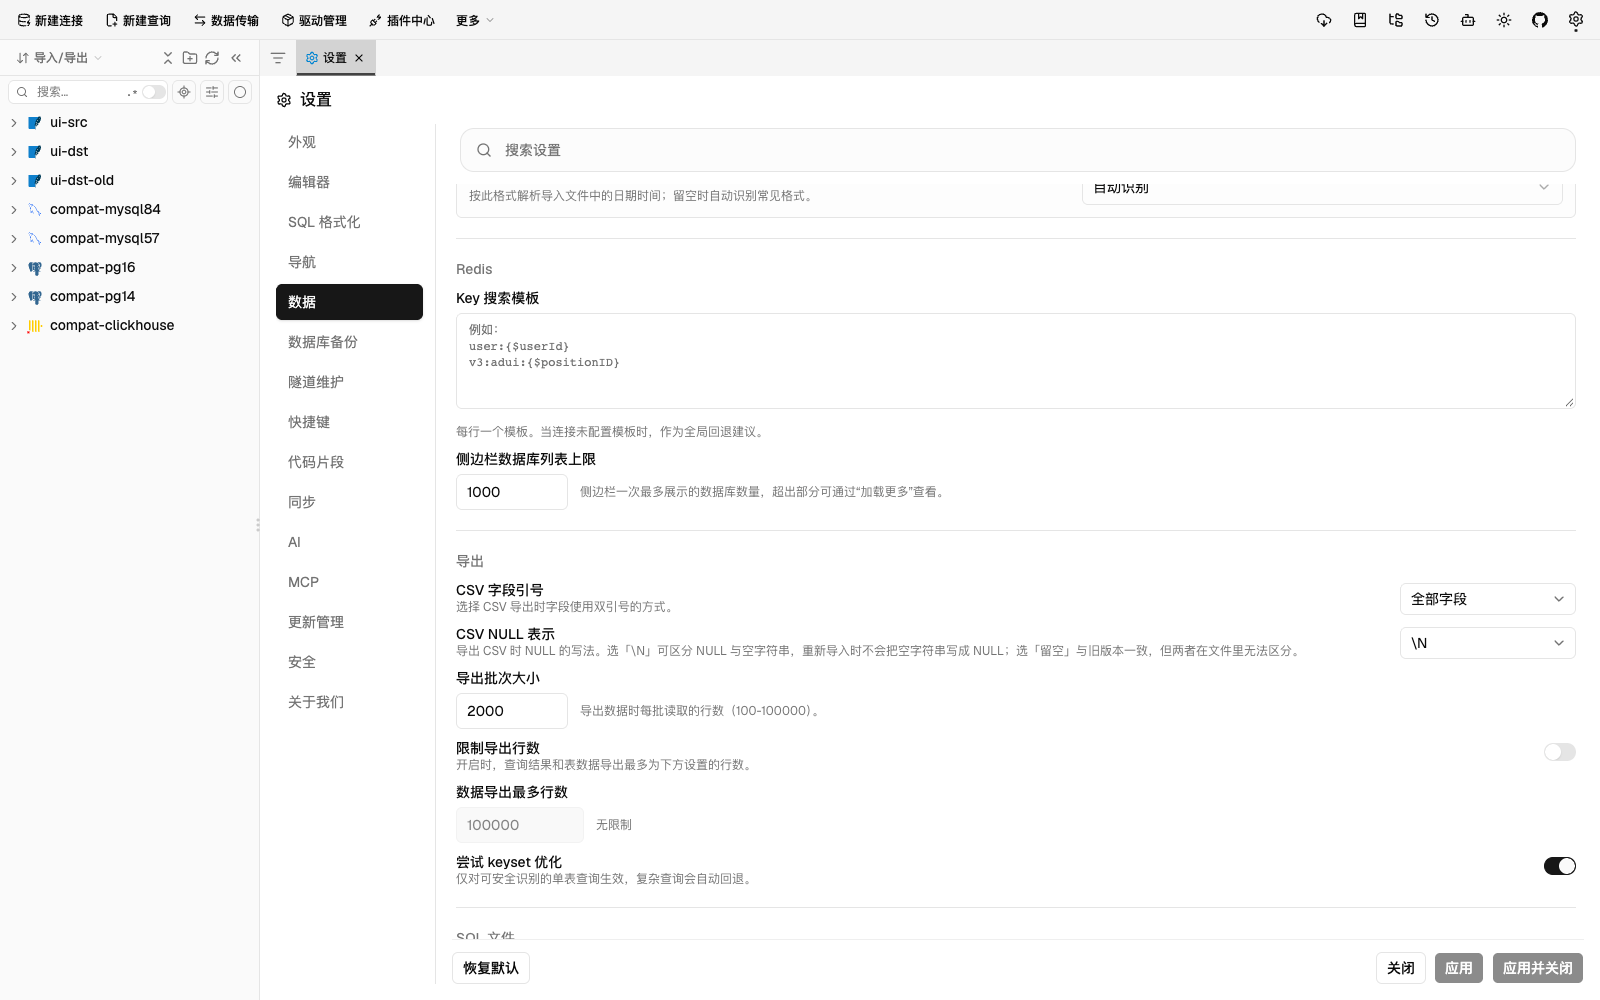
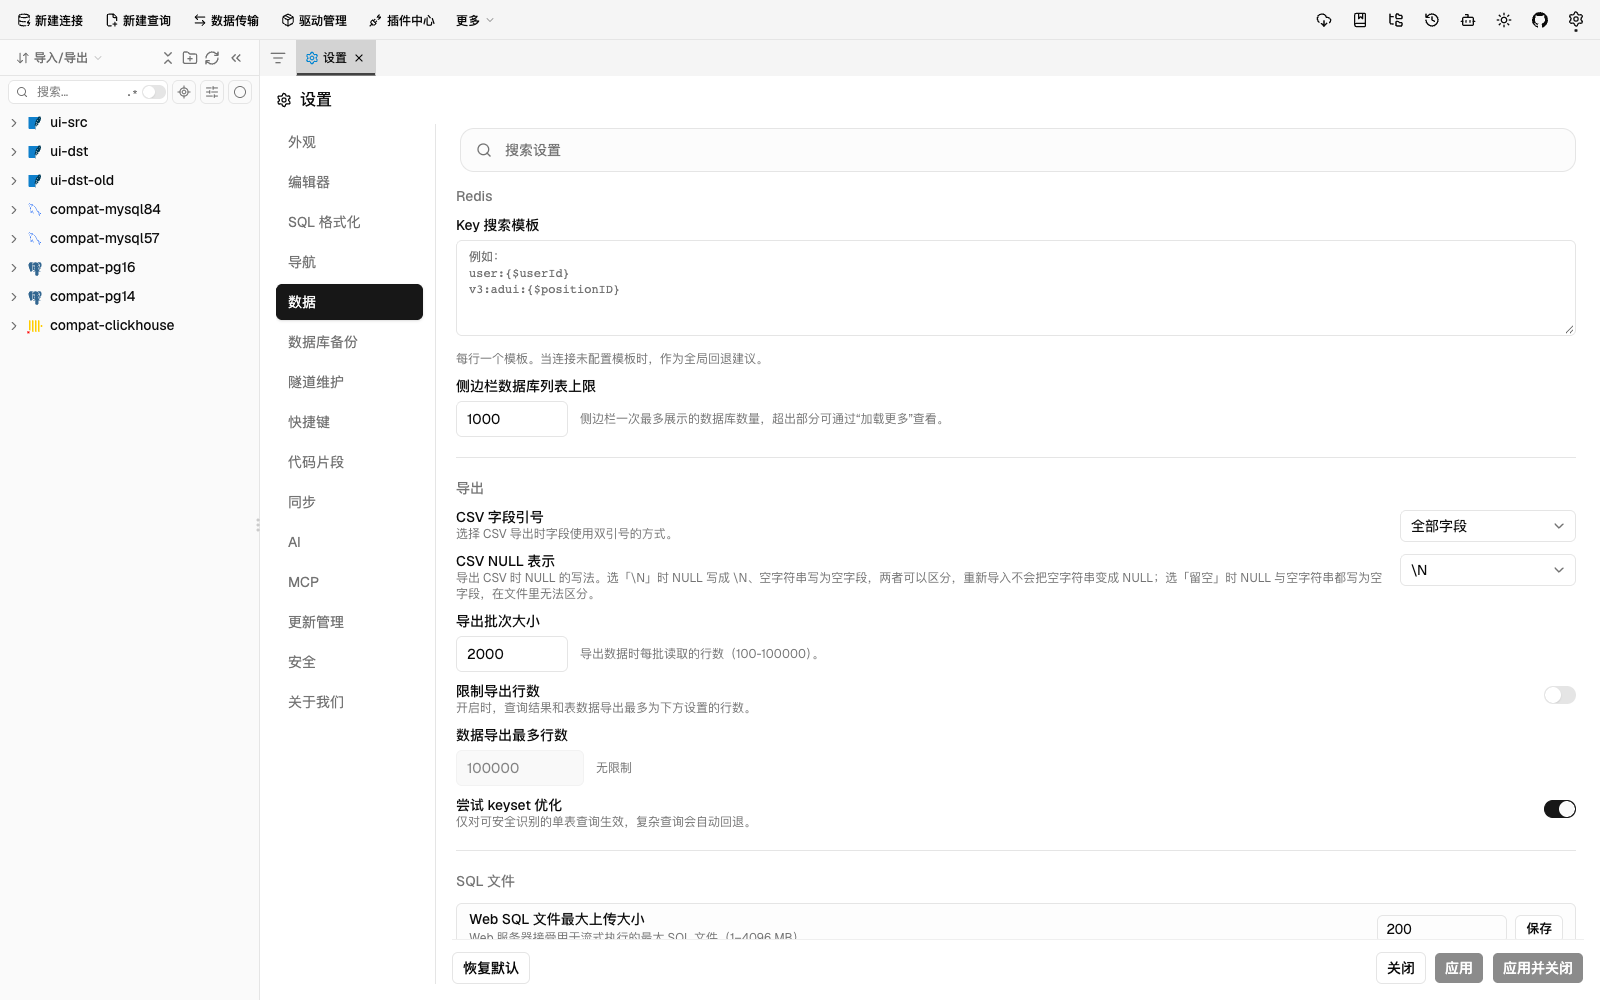
fix(i18n): 设置项说明直接描述两种写法，去掉旧版本指代
「CSV NULL 表示」的说明原先用「与旧版本一致」解释「留空」，指代不明确且会随时间失效。改为直接说明两种写法各自写出什么：`\N` 写 NULL、空字段写空字符串；留空则把 NULL 与空字符串都写成空字段、在文件里无法区分。11 个语言包同步更新，设置截图一并刷新。

diff --git a/apps/desktop/src/i18n/locales/ru.ts b/apps/desktop/src/i18n/locales/ru.ts
@@ -9051,7 +9051,8 @@ export default withEnglishFallback({
     csvQuoteModeAll: "Все поля",
     csvQuoteModeNecessary: "Только когда нужно",
     csvNullMode: "Представление NULL в CSV",
-    csvNullModeDescription: "Как записывается NULL при экспорте CSV. «\\N» отличает NULL от пустой строки, поэтому при повторном импорте пустые строки не станут NULL; «Пусто» сохраняет прежнее поведение, но не различает их.",
+    csvNullModeDescription:
+      "Как записывается NULL при экспорте CSV. С «\\N» NULL записывается как \\N, а пустая строка — как пустое поле, поэтому они различимы и при повторном импорте пустая строка не станет NULL. С «Пусто» и NULL, и пустая строка записываются как пустое поле, и различить их нельзя.",
     csvNullModeMarker: "\\N",
     csvNullModeEmpty: "Пусто",
     performanceSection: "Производительность",

diff --git a/apps/desktop/src/i18n/locales/ja.ts b/apps/desktop/src/i18n/locales/ja.ts
@@ -7778,7 +7778,7 @@ export default withEnglishFallback({
     csvQuoteModeAll: "すべてのフィールド",
     csvQuoteModeNecessary: "必要な場合のみ",
     csvNullMode: "CSV の NULL 表記",
-    csvNullModeDescription: "CSV エクスポート時に NULL を書く方式です。「\\N」は NULL と空文字列を区別でき、再インポートしても空文字列が NULL になりません。「空」は以前の動作と同じですが区別できません。",
+    csvNullModeDescription: "CSV エクスポート時に NULL を書く方式です。「\\N」では NULL を \\N、空文字列を空フィールドとして書き出すため両者を区別でき、再インポートしても空文字列は NULL になりません。「空」では NULL も空文字列も空フィールドとして書き出すため、区別できません。",
     csvNullModeMarker: "\\N",
     csvNullModeEmpty: "空",
     performanceSection: "パフォーマンス",

diff --git a/apps/desktop/src/i18n/locales/es.ts b/apps/desktop/src/i18n/locales/es.ts
@@ -7855,7 +7855,8 @@ export default withEnglishFallback({
     csvQuoteModeAll: "Todos los campos",
     csvQuoteModeNecessary: "Solo cuando sea necesario",
     csvNullMode: "Representación de NULL en CSV",
-    csvNullModeDescription: "Cómo se escribe NULL al exportar CSV. «\\N» distingue NULL de la cadena vacía, de modo que al reimportar las cadenas vacías no se convierten en NULL; «Vacío» mantiene el comportamiento anterior, pero no los distingue.",
+    csvNullModeDescription:
+      "Cómo se escribe NULL al exportar CSV. Con «\\N», NULL se escribe como \\N y las cadenas vacías como campos vacíos, así que se distinguen y al reimportar las cadenas vacías no se convierten en NULL. Con «Vacío», tanto NULL como las cadenas vacías se escriben como campos vacíos y no se pueden distinguir.",
     csvNullModeMarker: "\\N",
     csvNullModeEmpty: "Vacío",
     performanceSection: "Rendimiento",

diff --git a/apps/desktop/src/i18n/locales/ko.ts b/apps/desktop/src/i18n/locales/ko.ts
@@ -8085,7 +8085,7 @@ export default withEnglishFallback({
     csvQuoteModeAll: "모든 필드",
     csvQuoteModeNecessary: "필수 필드만",
     csvNullMode: "CSV NULL 표기",
-    csvNullModeDescription: 'CSV 내보내기 시 NULL을 쓰는 방식입니다. "\\N"은 NULL과 빈 문자열을 구분하므로 다시 가져올 때 빈 문자열이 NULL이 되지 않습니다. "비움"은 이전 동작과 같지만 구분할 수 없습니다.',
+    csvNullModeDescription: 'CSV 내보내기 시 NULL을 쓰는 방식입니다. "\\N"은 NULL을 \\N으로, 빈 문자열을 빈 필드로 쓰므로 둘을 구분할 수 있고 다시 가져와도 빈 문자열이 NULL이 되지 않습니다. "비움"은 NULL과 빈 문자열을 모두 빈 필드로 쓰므로 구분할 수 없습니다.',
     csvNullModeMarker: "\\N",
     csvNullModeEmpty: "비움",
     shortcutConvertNamingStyle: "네이밍 스타일 전환",

diff --git a/apps/desktop/src/i18n/locales/it.ts b/apps/desktop/src/i18n/locales/it.ts
@@ -7779,7 +7779,8 @@ export default withEnglishFallback({
     csvQuoteModeAll: "Tutti i campi",
     csvQuoteModeNecessary: "Solo quando necessario",
     csvNullMode: "Rappresentazione di NULL nel CSV",
-    csvNullModeDescription: "Come viene scritto NULL durante l'esportazione CSV. «\\N» distingue NULL dalla stringa vuota, così al reimport le stringhe vuote non diventano NULL; «Vuoto» mantiene il comportamento precedente, ma non li distingue.",
+    csvNullModeDescription:
+      "Come viene scritto NULL durante l'esportazione CSV. Con «\\N», NULL viene scritto come \\N e le stringhe vuote come campi vuoti, quindi restano distinguibili e al reimport le stringhe vuote non diventano NULL. Con «Vuoto», sia NULL sia le stringhe vuote vengono scritti come campi vuoti e non sono distinguibili.",
     csvNullModeMarker: "\\N",
     csvNullModeEmpty: "Vuoto",
     performanceSection: "Prestazioni",

diff --git a/apps/desktop/src/i18n/locales/az.ts b/apps/desktop/src/i18n/locales/az.ts
@@ -7824,7 +7824,8 @@ export default withEnglishFallback({
     csvQuoteModeAll: "Bütün sahələr",
     csvQuoteModeNecessary: "Yalnız lazım olduqda",
     csvNullMode: "CSV NULL təsviri",
-    csvNullModeDescription: "CSV ixracında NULL-un yazılma üsulu. «\\N» NULL ilə boş sətri fərqləndirir, yenidən idxalda boş sətirlər NULL olmur; «Boş» köhnə davranışı saxlayır, lakin onları fərqləndirmir.",
+    csvNullModeDescription:
+      "CSV ixracında NULL-un yazılma üsulu. «\\N» seçildikdə NULL \\N kimi, boş sətir isə boş sahə kimi yazılır; beləliklə onları fərqləndirmək mümkündür və yenidən idxalda boş sətir NULL olmur. «Boş» seçildikdə həm NULL, həm də boş sətir boş sahə kimi yazılır və fərqləndirilə bilmir.",
     csvNullModeMarker: "\\N",
     csvNullModeEmpty: "Boş",
     performanceSection: "Məhsuldarlıq",

diff --git a/apps/desktop/src/i18n/locales/pt-BR.ts b/apps/desktop/src/i18n/locales/pt-BR.ts
@@ -7781,7 +7781,8 @@ export default withEnglishFallback({
     csvQuoteModeAll: "Todos os campos",
     csvQuoteModeNecessary: "Somente quando necessário",
     csvNullMode: "Representação de NULL no CSV",
-    csvNullModeDescription: "Como NULL é escrito ao exportar CSV. «\\N» distingue NULL da string vazia, então ao reimportar as strings vazias não viram NULL; «Vazio» mantém o comportamento antigo, mas não os distingue.",
+    csvNullModeDescription:
+      "Como NULL é escrito ao exportar CSV. Com «\\N», NULL é escrito como \\N e strings vazias como campos vazios, então os dois permanecem distinguíveis e, ao reimportar, strings vazias não viram NULL. Com «Vazio», tanto NULL quanto strings vazias são escritos como campos vazios e não podem ser distinguidos.",
     csvNullModeMarker: "\\N",
     csvNullModeEmpty: "Vazio",
     performanceSection: "Desempenho",

diff --git a/apps/desktop/src/i18n/locales/en.ts b/apps/desktop/src/i18n/locales/en.ts
@@ -8552,7 +8552,8 @@ export default {
     csvQuoteModeAll: "All fields",
     csvQuoteModeNecessary: "Only when needed",
     csvNullMode: "CSV NULL representation",
-    csvNullModeDescription: 'How NULL is written when exporting CSV. "\\N" keeps NULL distinguishable from an empty string, so re-importing does not turn empty strings into NULL; "Empty" matches older versions but leaves the two indistinguishable.',
+    csvNullModeDescription:
+      'How NULL is written when exporting CSV. With "\\N", NULL is written as \\N and empty strings as empty fields, so the two stay distinguishable and re-importing does not turn empty strings into NULL. With "Empty", NULL and empty strings are both written as empty fields and cannot be told apart.',
     csvNullModeMarker: "\\N",
     csvNullModeEmpty: "Empty",
     performanceSection: "Performance",

diff --git a/apps/desktop/src/i18n/locales/tr.ts b/apps/desktop/src/i18n/locales/tr.ts
@@ -7723,7 +7723,7 @@ export default withEnglishFallback({
     csvQuoteModeAll: "Tüm alanlar",
     csvQuoteModeNecessary: "Yalnızca gerektiğinde",
     csvNullMode: "CSV NULL gösterimi",
-    csvNullModeDescription: "CSV dışa aktarılırken NULL nasıl yazılır. «\\N» NULL ile boş dizeyi ayırır, böylece yeniden içe aktarımda boş dizeler NULL olmaz; «Boş» eski davranışı korur ancak ikisini ayırmaz.",
+    csvNullModeDescription: "CSV dışa aktarılırken NULL nasıl yazılır. «\\N» ile NULL \\N olarak, boş dize ise boş alan olarak yazılır; böylece ikisi ayırt edilebilir ve yeniden içe aktarımda boş dize NULL olmaz. «Boş» ile hem NULL hem de boş dize boş alan olarak yazılır ve ayırt edilemez.",
     csvNullModeMarker: "\\N",
     csvNullModeEmpty: "Boş",
     performanceSection: "Başarım",

diff --git a/apps/desktop/src/i18n/locales/zh-CN.ts b/apps/desktop/src/i18n/locales/zh-CN.ts
@@ -8515,7 +8515,7 @@ export default withEnglishFallback({
     csvQuoteModeAll: "全部字段",
     csvQuoteModeNecessary: "仅必要字段",
     csvNullMode: "CSV NULL 表示",
-    csvNullModeDescription: "导出 CSV 时 NULL 的写法。选「\\N」可区分 NULL 与空字符串，重新导入时不会把空字符串写成 NULL；选「留空」与旧版本一致，但两者在文件里无法区分。",
+    csvNullModeDescription: "导出 CSV 时 NULL 的写法。选「\\N」时 NULL 写成 \\N、空字符串写为空字段，两者可以区分，重新导入不会把空字符串变成 NULL；选「留空」时 NULL 与空字符串都写为空字段，在文件里无法区分。",
     csvNullModeMarker: "\\N",
     csvNullModeEmpty: "留空",
     performanceSection: "性能",

diff --git a/apps/desktop/src/i18n/locales/zh-TW.ts b/apps/desktop/src/i18n/locales/zh-TW.ts
@@ -7612,7 +7612,7 @@ export default withEnglishFallback({
     csvQuoteModeAll: "全部欄位",
     csvQuoteModeNecessary: "僅必要欄位",
     csvNullMode: "CSV NULL 表示",
-    csvNullModeDescription: "匯出 CSV 時 NULL 的寫法。選「\\N」可區分 NULL 與空字串，重新匯入時不會把空字串寫成 NULL；選「留空」與舊版本一致，但兩者在檔案裡無法區分。",
+    csvNullModeDescription: "匯出 CSV 時 NULL 的寫法。選「\\N」時 NULL 寫成 \\N、空字串寫成空欄位，兩者可以區分，重新匯入不會把空字串變成 NULL；選「留空」時 NULL 與空字串都寫成空欄位，在檔案裡無法區分。",
     csvNullModeMarker: "\\N",
     csvNullModeEmpty: "留空",
     performanceSection: "效能",
